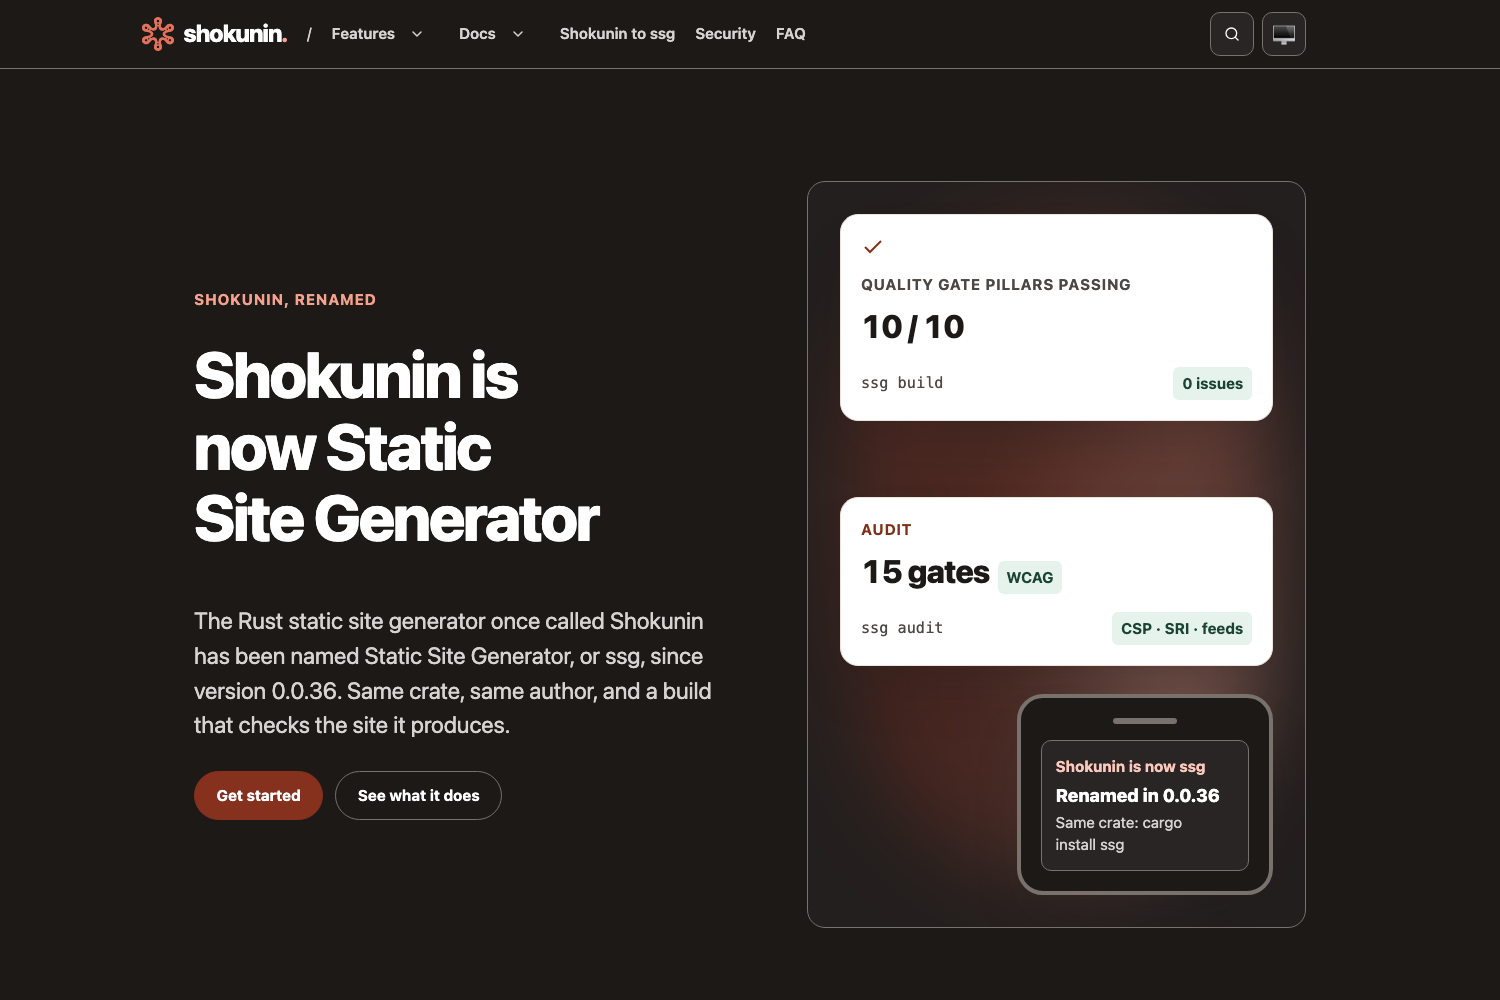
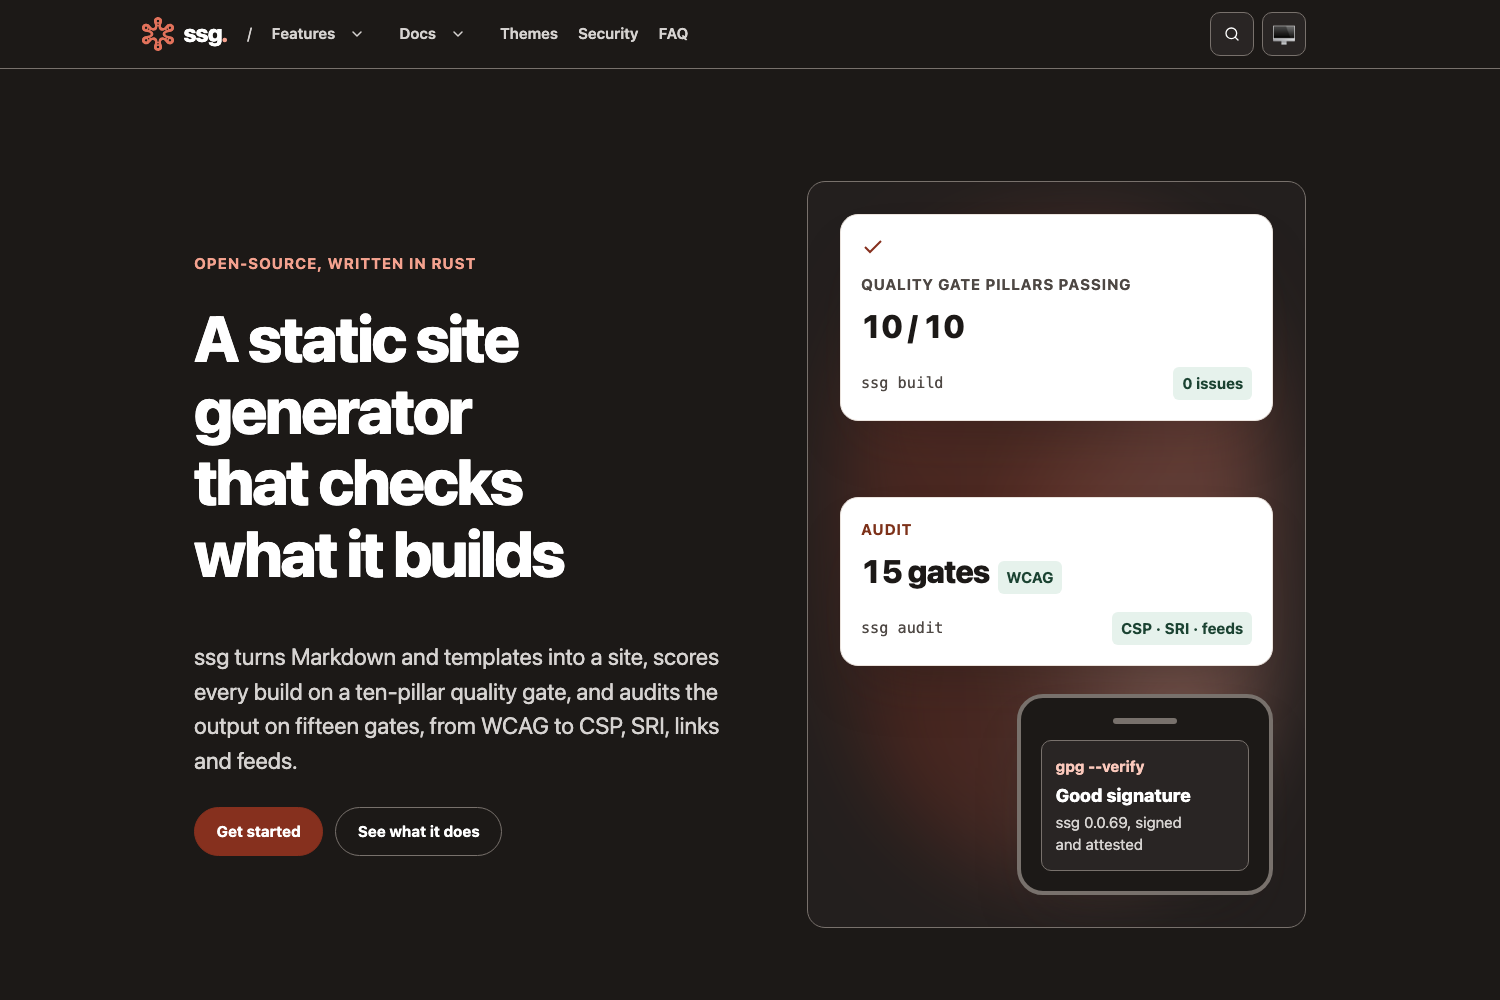
feat: serve the site at static-site-generator.com
The site becomes the Static Site Generator homepage at
https://static-site-generator.com/ (apex) instead of a legacy-name
site at shokunin.one, which does not resolve. docs. stays the rustdoc
reference and themes. the themes site.

Move base_url, and with it canonical, og:url, sitemap, feeds and the
CNAME post-build.py writes, to static-site-generator.com; update
robots.txt, security.txt, SECURITY.md, the structured data, the feed
titles, the social-image brand and the README. VERSION is 0.0.3.

Verified: make build passes with ssg 0.0.69, still the latest release
(quality gate 10/10, all audit gates); docs/CNAME reads
static-site-generator.com and every canonical starts with it.

Assisted-by: Claude Code:claude-opus-5-5 ssg-audit

diff --git a/_layouts/base.html b/_layouts/base.html
@@ -40,9 +40,9 @@
 
     <link rel="canonical" href="{{permalink}}" />
 
-    <link rel="alternate" type="application/rss+xml" title="Shokunin - RSS" href="{{site_path}}rss.xml" />
-    <link rel="alternate" type="application/atom+xml" title="Shokunin - Atom" href="{{site_path}}atom.xml" />
-    <link rel="alternate" type="application/feed+json" title="Shokunin - JSON Feed" href="{{site_path}}feed.json" />
+    <link rel="alternate" type="application/rss+xml" title="Static Site Generator - RSS" href="{{site_path}}rss.xml" />
+    <link rel="alternate" type="application/atom+xml" title="Static Site Generator - Atom" href="{{site_path}}atom.xml" />
+    <link rel="alternate" type="application/feed+json" title="Static Site Generator - JSON Feed" href="{{site_path}}feed.json" />
     <link rel="manifest" href="{{site_path}}manifest.json" />
     <link rel="icon" href="{{site_path}}logo.svg" type="image/svg+xml" />
 
@@ -62,7 +62,7 @@
             "@type": "WebSite",
             "@id": "{{site_url}}#website",
             "url": "{{site_url}}",
-            "name": "Shokunin",
+            "name": "Static Site Generator",
             "description": "{{description}}",
             "inLanguage": "{{language}}",
             "publisher": { "@id": "{{site_url}}#author" }
@@ -72,7 +72,7 @@
             "@id": "{{site_url}}#ssg",
             "name": "Static Site Generator (ssg)",
             "alternateName": "Shokunin",
-            "description": "A static site generator written in Rust, formerly named Shokunin, that builds a site and checks it: accessibility, structured data, content security policy and Subresource Integrity.",
+            "description": "A static site generator written in Rust that builds a site and checks it: accessibility, structured data, content security policy and Subresource Integrity.",
             "applicationCategory": "DeveloperApplication",
             "operatingSystem": "Linux, macOS, Windows",
             "programmingLanguage": "Rust",

diff --git a/_layouts/contact.html b/_layouts/contact.html
@@ -14,8 +14,8 @@
     <div class="prose">{{!content}}</div>
 
     <!--
-      Posts to shokunin.one's Formspree endpoint, the same one the 2024
-      site used; base.html allows that origin in the form-action policy.
+      Posts to the Formspree endpoint the previous site used;
+      base.html allows that origin in the form-action policy.
     -->
     <form class="stack" action="https://formspree.io/f/mqkvgqpg" method="post">
       <div class="field">

diff --git a/scripts/og_images.py b/scripts/og_images.py
@@ -3,7 +3,7 @@
 """Give every built page its own Open Graph image.
 
 For each page in the output it renders a 1200x630 card (the page title
-and description on the Shokunin (ssg) palette, with the logo) through headless
+and description on the Static Site Generator palette, with the logo) through headless
 Chrome into og/<slug>.png, then points the page's og:image and
 twitter:image at that file. Run after post-build.py. The build fails if
 Chrome is missing or any page is left without its image, so CI enforces
@@ -54,7 +54,7 @@ h1{{font-size:68px;line-height:1.1;margin:56px 0 24px;font-weight:700;letter-spa
 p{{font-size:30px;line-height:1.4;margin:0;color:#d6d3d1;max-width:1000px}}
 .url{{margin-top:auto;font-size:26px;color:#d6d3d1}}
 </style></head><body><div class="card">
-<div class="brand">{logo}<span>Shokunin</span></div>
+<div class="brand">{logo}<span>Static Site Generator</span></div>
 <h1>{title}</h1><p>{description}</p><div class="url">{host}</div>
 </div></body></html>"""
 

diff --git a/scripts/contrast.py b/scripts/contrast.py
@@ -1,6 +1,6 @@
 #!/usr/bin/env python3
 # SPDX-License-Identifier: MIT
-"""WCAG contrast gate for shokunin.one's colour tokens.
+"""WCAG contrast gate for static-site-generator.com's colour tokens.
 
 Adapted from scripts/contrast.py in github.com/sebastienrousseau/ssg-themes.github.io
 (MIT): the same ratios and the same token pairs as the Prism theme, read from

diff --git a/README.md b/README.md
@@ -8,21 +8,21 @@ Releases adhere strictly to https://github.com/sebastienrousseau/passmcp/release
   <img src="static/logo.svg" alt="Static Site Generator logo" width="128" />
 </p>
 
-<h1 align="center">shokunin.one</h1>
+<h1 align="center">static-site-generator.com</h1>
 
 <p align="center">
-  The website for Shokunin, now Static Site Generator (ssg), built with ssg itself and the Prism theme.
+  The homepage of Static Site Generator (ssg), built with ssg itself and the Prism theme.
 </p>
 
 <p align="center">
   <a href="https://github.com/sebastienrousseau/shokunin.github.io/actions"><img src="https://img.shields.io/github/actions/workflow/status/sebastienrousseau/shokunin.github.io/pages.yml?style=for-the-badge&logo=github" alt="Build" height="28" /></a>
-  <a href="https://shokunin.one/"><img src="https://img.shields.io/website?url=https%3A%2F%2Fshokunin.one&style=for-the-badge&labelColor=555555&label=shokunin.one" alt="Website" height="28" /></a>
+  <a href="https://static-site-generator.com/"><img src="https://img.shields.io/website?url=https%3A%2F%2Fstatic-site-generator.com&style=for-the-badge&labelColor=555555&label=static-site-generator.com" alt="Website" height="28" /></a>
   <a href="https://scorecard.dev/viewer/?uri=github.com/sebastienrousseau/shokunin.github.io"><img src="https://img.shields.io/ossf-scorecard/github.com/sebastienrousseau/shokunin.github.io?style=for-the-badge&label=OpenSSF%20Scorecard&logo=openssf" alt="OpenSSF Scorecard" height="28" /></a>
   <a href="LICENSE-MIT"><img src="https://img.shields.io/badge/license-Apache--2.0%20OR%20MIT-blue.svg?style=for-the-badge" alt="License: Apache-2.0 OR MIT" height="28" /></a>
 </p>
 
 <p align="center">
-  <img src="static/images/screenshot.png" alt="The shokunin.one home page: the shokunin masthead, the headline Shokunin is now Static Site Generator, and cards for a 10 of 10 quality gate, 15 audit gates and the rename in 0.0.36" width="100%" />
+  <img src="static/images/screenshot.png" alt="The static-site-generator.com home page: the ssg masthead, the headline A static site generator that checks what it builds, and cards for a 10 of 10 quality gate, 15 audit gates and a good release signature" width="100%" />
 </p>
 
 ---
@@ -35,9 +35,9 @@ Releases adhere strictly to https://github.com/sebastienrousseau/passmcp/release
 - [Requirements](#requirements): ssg, Python, Chrome for the screenshot
 - [Quick Start](#quick-start): build, check and preview locally
 
-**The shokunin.one ecosystem**
+**The static-site-generator.com ecosystem**
 
-- [The shokunin.one ecosystem](#the-shokuninone-ecosystem): the site, the generator it describes and the theme
+- [The static-site-generator.com ecosystem](#the-static-site-generatorcom-ecosystem): the site, the generator, its reference and themes
 
 **Library reference**
 
@@ -50,7 +50,7 @@ Releases adhere strictly to https://github.com/sebastienrousseau/passmcp/release
 
 **Operational**
 
-- [When not to use shokunin.one](#when-not-to-use-shokuninone): where the reference lives instead
+- [When not to use static-site-generator.com](#when-not-to-use-static-site-generatorcom): where the reference lives instead
 - [Development](#development): make targets and CI
 - [Security](#security): CSP, SRI and supply chain
 - [Documentation](#documentation): where each part is described
@@ -96,10 +96,11 @@ make serve   # build, then serve on http://127.0.0.1:8000
 
 ---
 
-## The shokunin.one ecosystem
+## The static-site-generator.com ecosystem
 
-shokunin.one describes Static Site Generator (ssg), the Rust static site
-generator formerly called Shokunin, and is generated by it:
+static-site-generator.com is the homepage of Static Site Generator (ssg),
+the Rust static site generator formerly called Shokunin, and is generated
+by it:
 [Static Site Generator](https://github.com/sebastienrousseau/static-site-generator).
 
 | Component | Purpose | Use case |
@@ -140,7 +141,7 @@ Not applicable: this repository is a website.
 ## Features
 
 - Sixteen pages: home, features, getting started, command reference,
-  migration from Shokunin, security, FAQ, about, changelog, contributing,
+  Formerly Shokunin (the rename and the old flags), security, FAQ, about, changelog, contributing,
   contact, accessibility, privacy, terms, colophon and 404.
 - A shared header and footer in `_layouts/`, written once for the site.
 - Every fact about ssg is taken from its repository (source, README,
@@ -162,19 +163,16 @@ Not applicable: this repository is a website.
 ## Examples
 
 Not applicable: this repository is a website. ssg's examples are on the
-site's [getting started page](https://shokunin.one/getting-started/).
+site's [getting started page](https://static-site-generator.com/getting-started/).
 
 ---
 
-## When not to use shokunin.one
+## When not to use static-site-generator.com
 
-The site explains the Shokunin name and summarises ssg. The reference is
-the static-site-generator repository and <https://docs.rs/ssg>; when they
-disagree with this site, they win.
-
-shokunin.one does not resolve at the time of writing (NXDOMAIN): the
-domain is set in the Pages settings, but DNS has to be restored before the
-site is reachable there.
+The site introduces ssg. The reference is the static-site-generator
+repository and the API reference at
+<https://docs.static-site-generator.com/>; when they disagree with this
+site, they win. Themes live at <https://themes.static-site-generator.com/>.
 
 ---
 
@@ -207,9 +205,10 @@ Report vulnerabilities according to [`SECURITY.md`](SECURITY.md).
 
 ## Documentation
 
-- The website: <https://shokunin.one/>
+- The website: <https://static-site-generator.com/>
 - ssg: <https://github.com/sebastienrousseau/static-site-generator>
-- The API reference: <https://docs.rs/ssg>
+- The API reference: <https://docs.static-site-generator.com/>
+- Themes: <https://themes.static-site-generator.com/>
 - Static Site Generator: <https://github.com/sebastienrousseau/static-site-generator>
 - Third-party licences: [`LICENSES/`](LICENSES/)
 
@@ -217,11 +216,10 @@ Report vulnerabilities according to [`SECURITY.md`](SECURITY.md).
 
 ## Stability guarantees
 
-Page URLs that still have content are kept: `/contact/`, `/contribute/`,
-`/documentation/`, `/privacy/` and `/terms/`. The 2024 site's
-`/installation/` and `/quick-start/` are replaced by `/getting-started/`, and
-`/offline/`, `/thanks/` and `/tags/` belonged to its old design and are gone. The sitemap is dated by
-the last commit, and CI pins the ssg release it builds with.
+The site moved from shokunin.one to static-site-generator.com in 0.0.3;
+page paths are unchanged, including `/migration/`, now titled Formerly
+Shokunin. The sitemap is dated by the last commit, and CI pins the ssg
+release it builds with.
 
 ---
 

diff --git a/CHANGELOG.md b/CHANGELOG.md
@@ -2,9 +2,24 @@
 
 # Changelog
 
-All notable changes to shokunin.one are documented here.
+All notable changes to this website, static-site-generator.com (formerly
+shokunin.one), are documented here.
 
-## [0.0.2] - Unreleased
+## [0.0.3] - Unreleased
+
+### Changed
+
+- The site is now the Static Site Generator homepage at
+  https://static-site-generator.com/ instead of a legacy-name site at
+  shokunin.one: base URL, canonical and Open Graph URLs, robots.txt,
+  security.txt and the README follow.
+- The home page, FAQ and about page present ssg itself; the rename is a
+  short "Formerly Shokunin" page at the same `/migration/` URL, keeping the
+  old-flag mapping table.
+- A themes section links themes.static-site-generator.com, and the API
+  reference links docs.static-site-generator.com.
+
+## [0.0.2] - 2026-10-26 (merged, not tagged)
 
 ### Changed
 

diff --git a/SECURITY.md b/SECURITY.md
@@ -2,9 +2,9 @@
 
 # Security Policy
 
-This repository holds the source of shokunin.one. Report a vulnerability
-in the website, or in Static Site Generator (ssg, formerly Shokunin), which
-it describes, privately to **sebastian.rousseau@gmail.com**, the address in
+This repository holds the source of static-site-generator.com. Report a
+vulnerability in the website, or in Static Site Generator (ssg), which it
+describes, privately to **sebastian.rousseau@gmail.com**, the address in
 ssg's [security policy](https://github.com/sebastienrousseau/static-site-generator/security/policy).
 Machine-readable disclosure metadata lives at
 [`/.well-known/security.txt`](.well-known/security.txt) per
